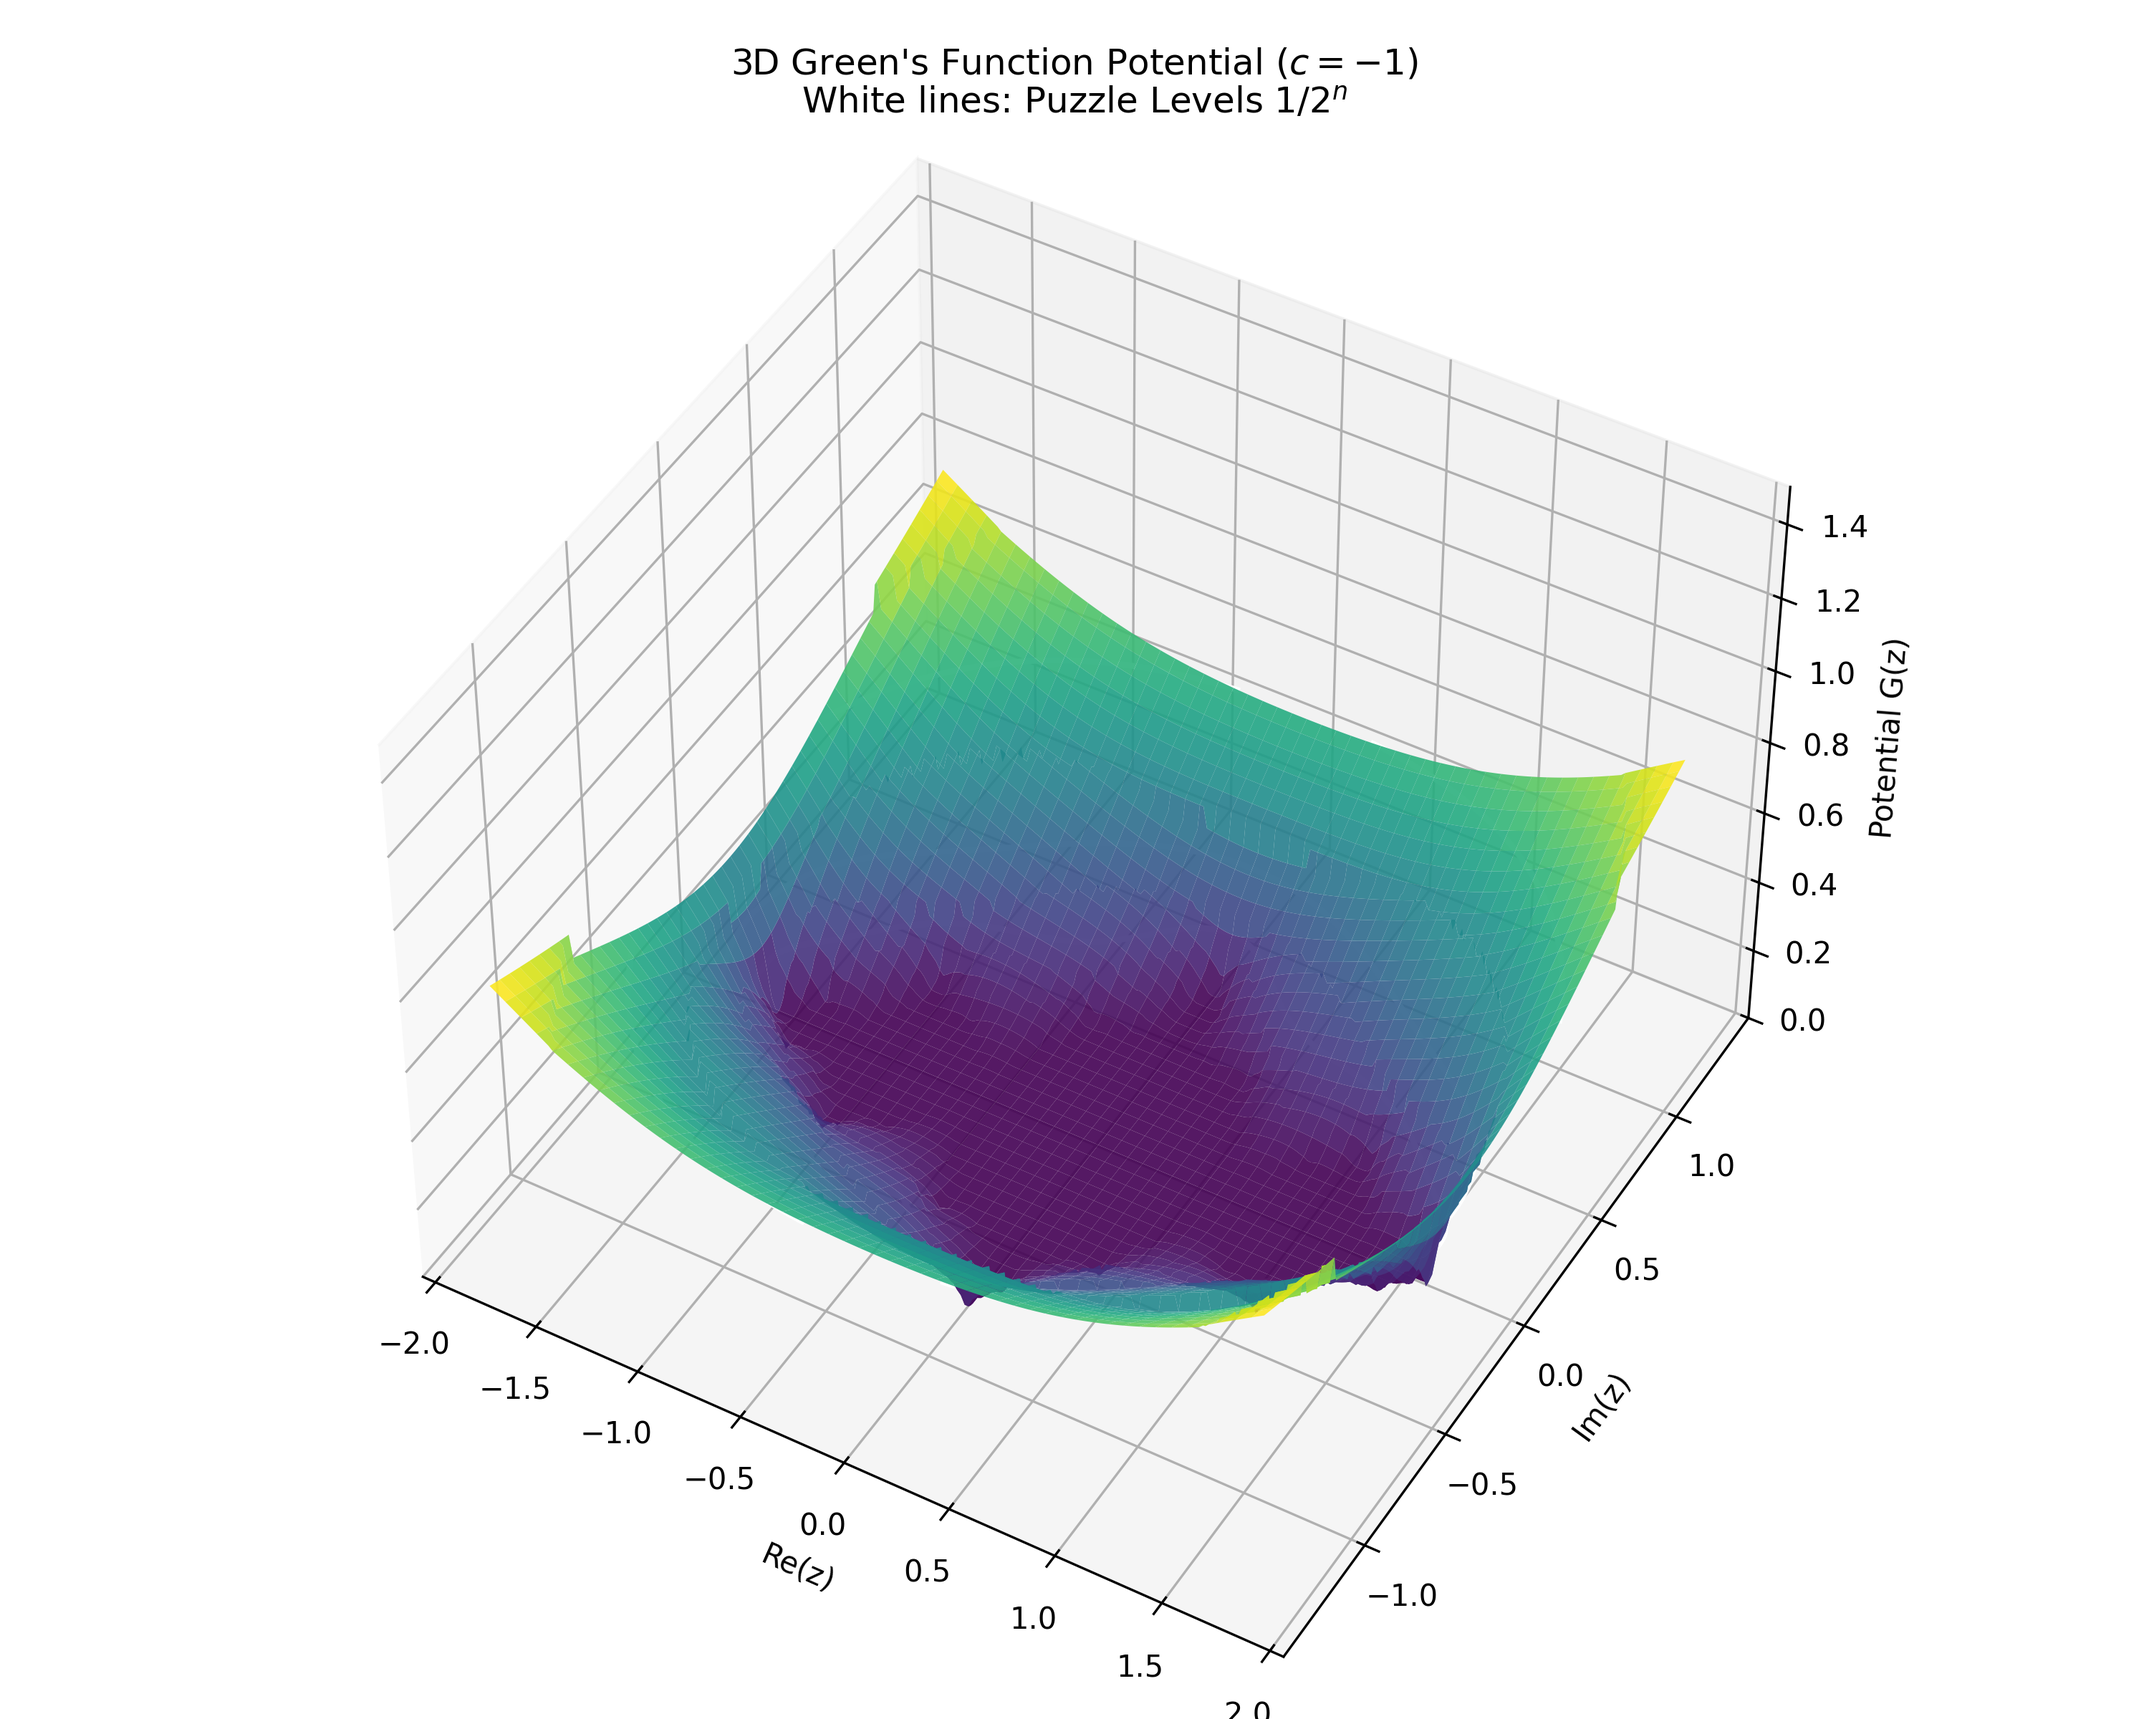
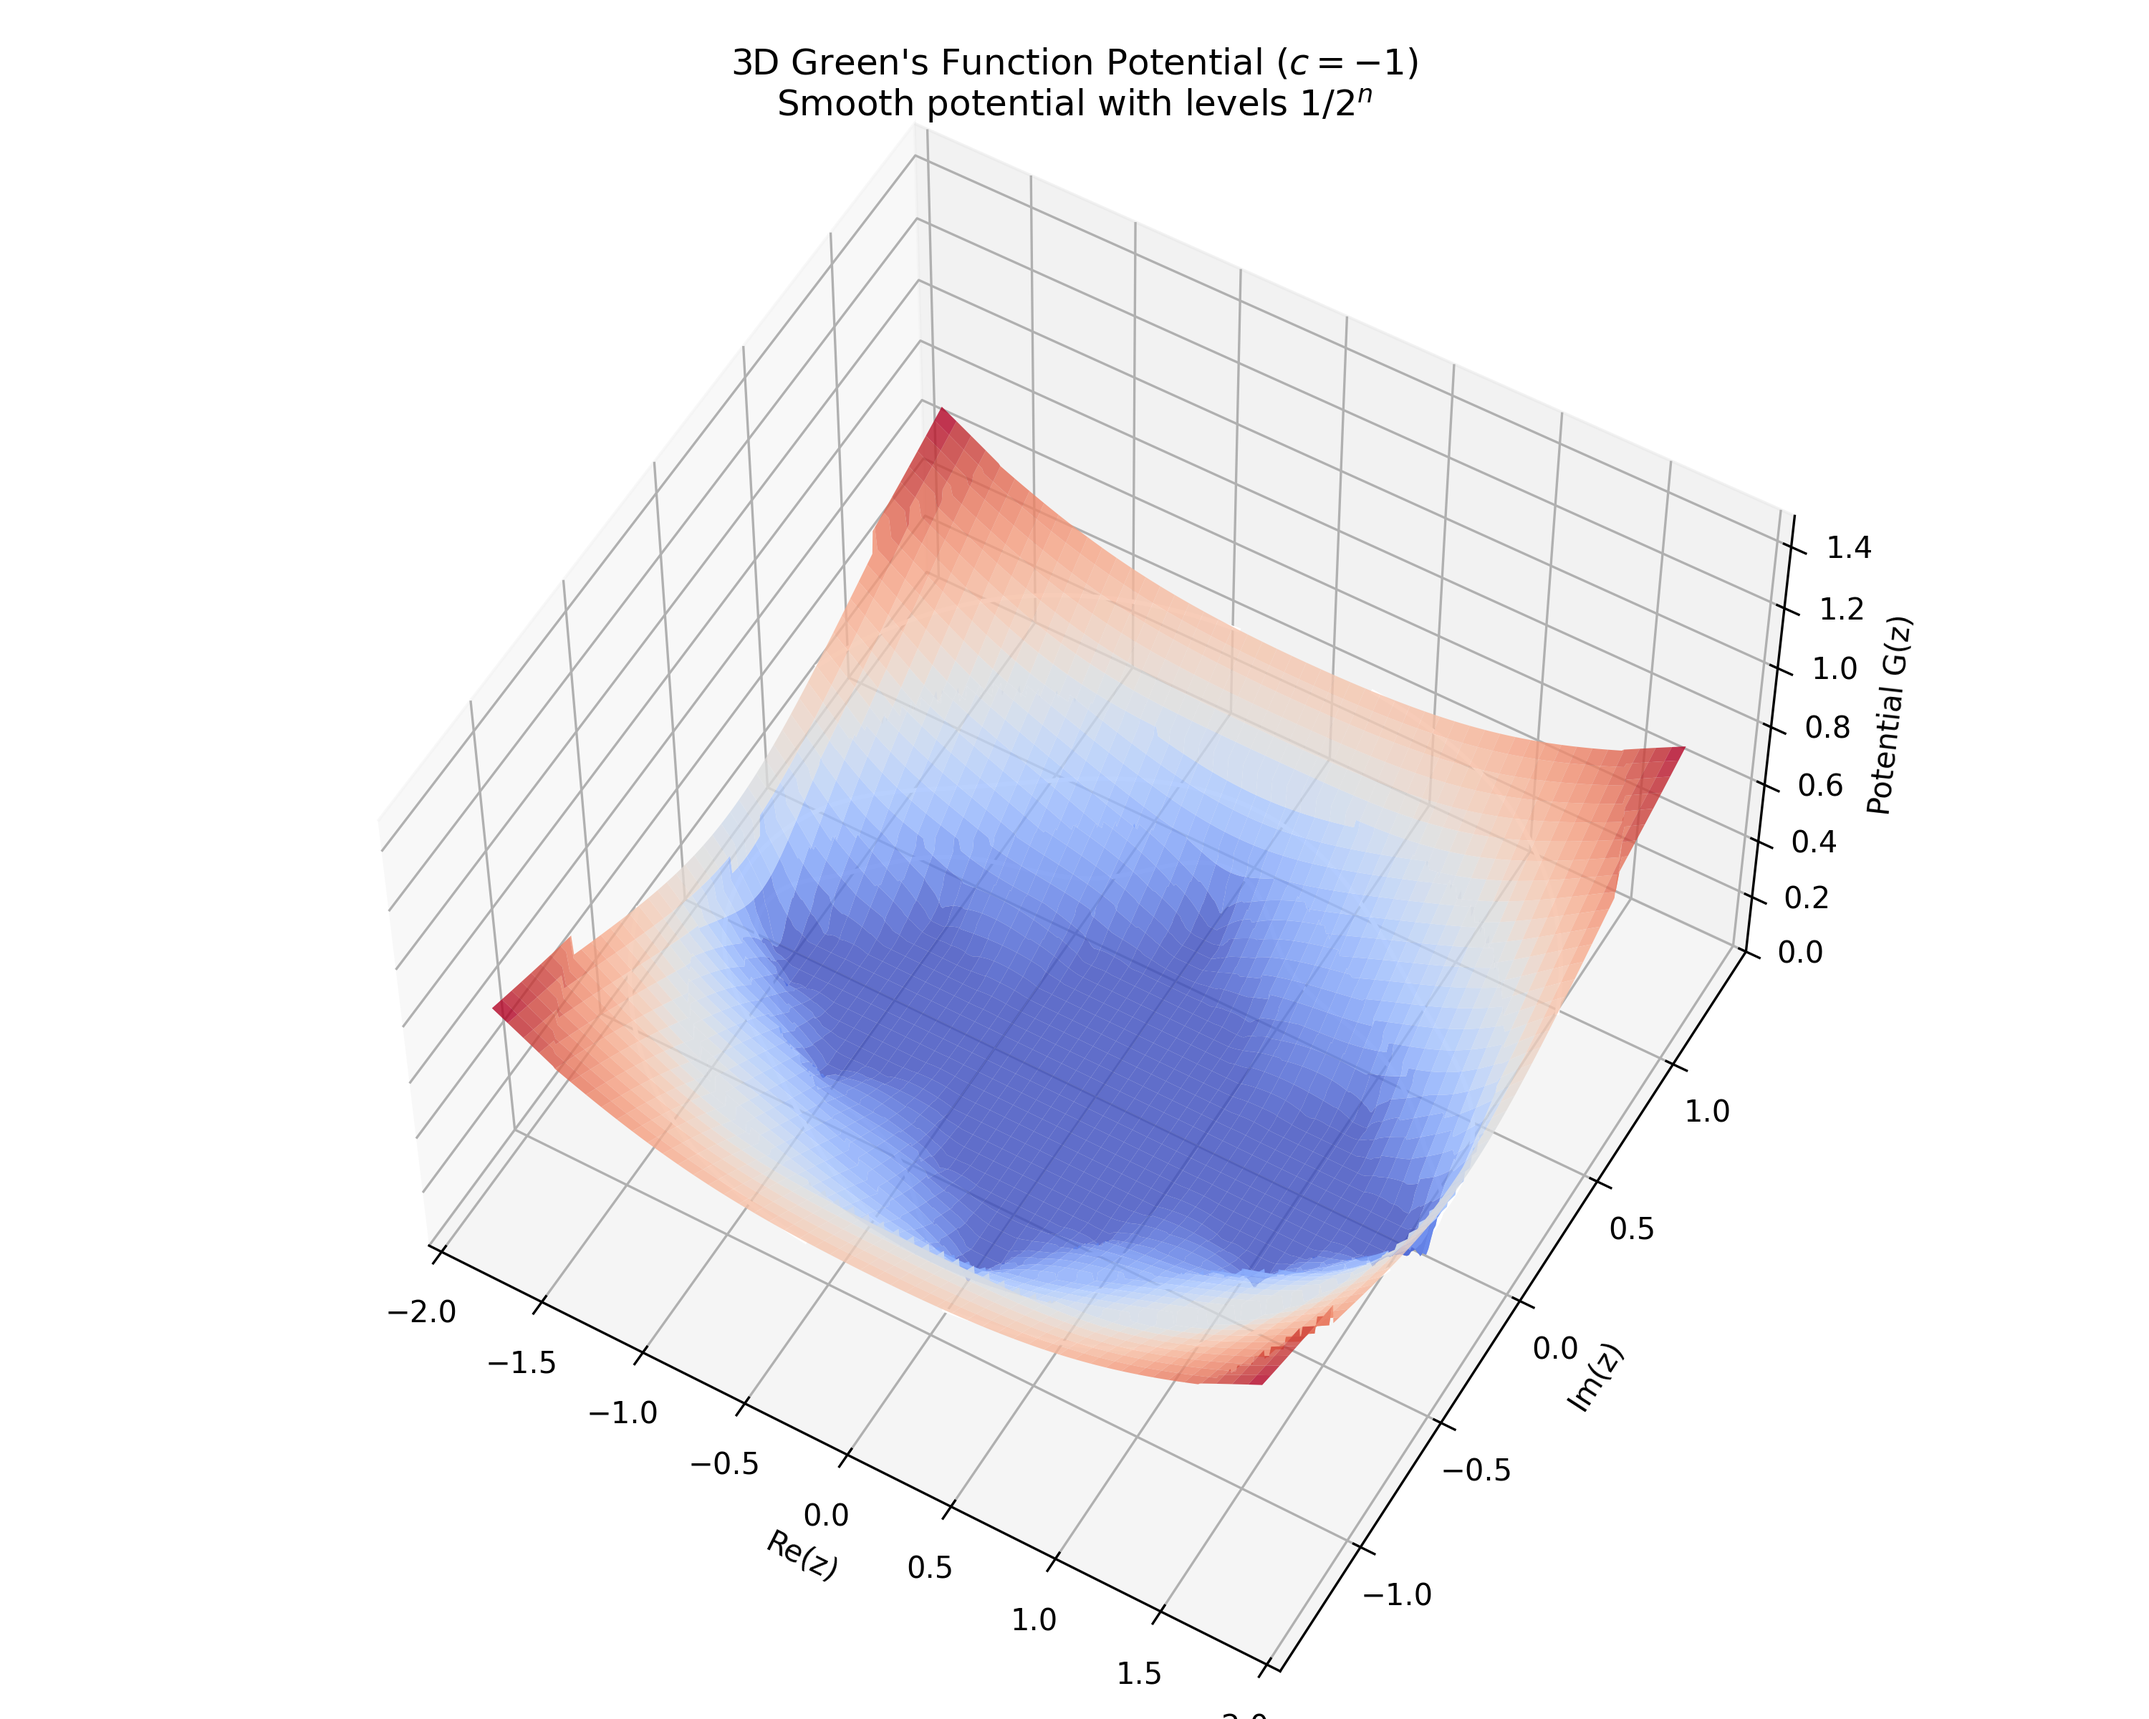
WIP

diff --git a/scripts/plot_3d_viz.py b/scripts/plot_3d_viz.py
@@ -19,36 +19,56 @@ def green_function(c, z, max_iter=100, R=2.0):
         zn[not_escaped] = zn[not_escaped]**2 + c
     return g
 
-def plot_3d_surface(c, filename, title, levels_to_show=None):
-    # Setup grid
-    x = np.linspace(-1.8, 1.8, 200)
-    y = np.linspace(-1.3, 1.3, 200)
+def plot_3d_surface(c, filename, title, levels_to_show=None, mode='smooth'):
+    # Setup grid - higher resolution for sharp steps
+    x = np.linspace(-1.8, 1.8, 400)
+    y = np.linspace(-1.3, 1.3, 400)
     X, Y = np.meshgrid(x, y)
     Z = X + 1j * Y
     
     # Compute Green's function
     G = green_function(c, Z, max_iter=80)
     
-    # Cap the height for better visualization of the "floor"
-    # G goes to infinity, but we care about the structure near K(c)
-    G_capped = np.minimum(G, 1.5)
+    if mode == 'stepped':
+        # Create "Stepped" potential to visualize the puzzle levels
+        # instead of smooth potential, we terrace it.
+        G_plot = G.copy()
+        
+        # Create a nice stepped look
+        max_steps = 5
+        for n in range(max_steps):
+            upper = 1.0 / (2**n)
+            lower = 1.0 / (2**(n+1))
+            mask = (G <= upper) & (G > lower)
+            G_plot[mask] = upper
+            
+        # For G > 1, keep smooth or cap
+        G_plot[G > 1.0] = G[G > 1.0]
+        # For deep inside, set to 0
+        G_plot[G <= 1.0 / (2**max_steps)] = 0.0
+        
+        cmap_style = 'viridis'
+        alpha_val = 0.95
+    else:
+        # Smooth mode
+        G_plot = G
+        cmap_style = 'coolwarm'
+        alpha_val = 0.8
+    
+    # Cap for plot visibility
+    G_capped = np.minimum(G_plot, 1.5)
     
     fig = plt.figure(figsize=(10, 8))
     ax = fig.add_subplot(111, projection='3d')
     
     # Surface plot
-    # cmap 'viridis' or 'coolwarm'
-    surf = ax.plot_surface(X, Y, G_capped, cmap='viridis', edgecolor='none', alpha=0.9)
+    surf = ax.plot_surface(X, Y, G_capped, cmap=cmap_style, edgecolor='none', alpha=alpha_val, antialiased=True)
     
-    # Contours on the surface (or slightly above to be visible)
+    # Contours on the surface
     if levels_to_show:
         for level in levels_to_show:
-            ax.contour(X, Y, G, levels=[level], colors='white', linewidths=2.0, zdir='z', offset=level)
-            # Also project to bottom?
-            # ax.contour(X, Y, G, levels=[level], colors='black', linestyles='dashed', linewidths=1.0, zdir='z', offset=0)
-
-    # Plot filled Julia set at z=0 (approx)
-    # ax.contourf(X, Y, G, levels=[0, 0.01], zdir='z', offset=0, colors='black')
+            # Plot contour at the height of the step/level
+            ax.contour(X, Y, G, levels=[level], colors='white', linewidths=1.5, zdir='z', offset=level)
 
     ax.set_title(title)
     ax.set_xlabel('Re(z)')
@@ -57,7 +77,7 @@ def plot_3d_surface(c, filename, title, levels_to_show=None):
     ax.set_zlim(0, 1.5)
     
     # View angle
-    ax.view_init(elev=45, azim=-60)
+    ax.view_init(elev=55, azim=-60)
     
     plt.tight_layout()
     plt.savefig(filename, dpi=300)
@@ -67,16 +87,15 @@ def main():
     # Basilica c = -1
     levels = [1.0, 0.5, 0.25, 0.125]
     
-    # Plot for Puzzle: Focus on levels
+    # Plot for Puzzle: Smooth potential showing the continuous function and level sets
     plot_3d_surface(-1, '../docs/images/puzzle_3d.png', 
-                    "3D Green's Function Potential ($c=-1$)\nWhite lines: Puzzle Levels $1/2^n$", 
-                    levels_to_show=levels)
+                    "3D Green's Function Potential ($c=-1$)\nSmooth potential with levels $1/2^n$", 
+                    levels_to_show=levels, mode='smooth')
     
-    # Plot for Yoccoz: Maybe same but different title emphasizing the geometry
-    # Actually, let's use the same visualization style but tailored caption in LaTeX
+    # Plot for Yoccoz: Stepped/Terraced view to emphasize the annuli A_n
     plot_3d_surface(-1, '../docs/images/yoccoz_3d.png', 
-                    "Potential Landscape ($c=-1$)\nRecurrent geometry of the levels", 
-                    levels_to_show=levels)
+                    "Discrete Potential Landscape ($c=-1$)\nTerraces correspond to Puzzle Annuli $A_n$", 
+                    levels_to_show=levels, mode='stepped')
 
 if __name__ == "__main__":
     main()

diff --git a/docs/Yoccoz.tex b/docs/Yoccoz.tex
@@ -52,7 +52,7 @@ But this contradicts the assumption that $c$ is non-renormalizable (divergent su
 \begin{figure}[ht]
     \centering
     \includegraphics[width=0.8\textwidth]{images/yoccoz_3d.png}
-    \caption{3D view of the potential landscape. The "steps" formed by the level sets $G_c(z) = 2^{-n}$ accumulate towards the filled Julia set (where $G=0$). For non-renormalizable parameters, the geometry of these steps ensures that the puzzle pieces shrink to a point.}
+    \caption{3D view of the potential landscape showing the "terraced" geometry. The flat regions correspond to the annuli $A_n$ where the potential $G_c(z)$ is between $2^{-(n+1)}$ and $2^{-n}$. The cliffs correspond to the puzzle piece boundaries. The recurrence of these terraces accumulates towards the filled Julia set.}
     \label{fig:yoccoz_3d}
 \end{figure}
 
